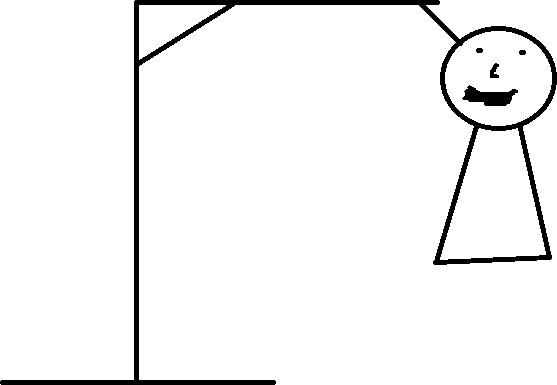
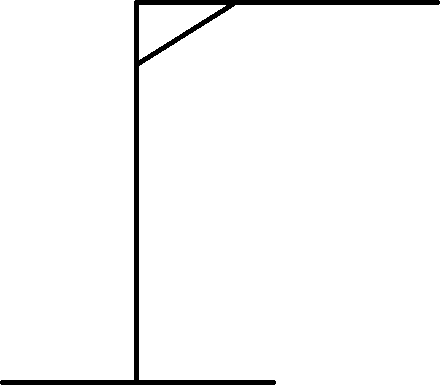
Add lifes of user and graphics

diff --git a/src/stores/WordStore.js b/src/stores/WordStore.js
@@ -3,7 +3,9 @@ import { ref, computed, watch } from "vue";
 
 export const useWordStore = defineStore("word", () => {
   const word = ref("");
+  const lifes = ref(8)
   const userWord = ref([])
+  const pathToImage = ref("")
   function initArrayOfUserWord(length){
     for (let i = 0; i < length; i++) {
       userWord.value[i]="_"
@@ -19,11 +21,25 @@ export const useWordStore = defineStore("word", () => {
   })
   const getWord = computed(() => word.value);
   function setUserWord(letter){
+    let isLetter = false
     for(let i=0; i<=word.value.length;i++){
     if(word.value[i]===letter){
       userWord.value[i]=letter
-    };
+      isLetter = true
     }
+    }
+    if(!isLetter){
+      decrementLifes()
+      changePathToImage(lifes.value)
+    }
+  }
+  const getLifes = computed(()=>lifes.value)
+  function decrementLifes(){
+    lifes.value--
+  }
+  const getPathToImage = computed(()=>pathToImage.value)
+  function changePathToImage(numberAsName){
+    pathToImage.value = `src/assets/${numberAsName}.png`
   }
   return {
     getWord,
@@ -31,5 +47,8 @@ export const useWordStore = defineStore("word", () => {
     getProgressWord,
     changeValue,
     setUserWord,
+    getLifes,
+    decrementLifes,
+    getPathToImage
   };
 });

diff --git a/src/components/Characters.vue b/src/components/Characters.vue
@@ -1,6 +1,6 @@
 <template>
     <div class="container">
-        <button v-for="n in 26" :key="n" @click="handleClick(n)" :disabled="isButtonClicked(n)">{{ String.fromCharCode(n + 64) }}</button>
+        <button v-for="n in 26" :key="n" @click="handleClick(n)" :disabled="isButtonClicked(n) || isGameEnded()">{{ String.fromCharCode(n + 64) }}</button>
     </div>
 </template>
 
@@ -10,6 +10,11 @@ import {ref} from "vue"
 const clickedButton = ref([])
 function isButtonClicked(n){
     return clickedButton.value.includes(n)
+}
+function isGameEnded(){
+    if(wordStore.getLifes===0){
+        return true
+    }
 }
 function handleClick(n){
     clickedButton.value.push(n)

diff --git a/src/App.vue b/src/App.vue
@@ -4,12 +4,14 @@ import { useWordStore } from "./stores/WordStore.js"
 const wordStore = useWordStore()
 import { getWord } from "./api/getWordFromApi";
 import HangmanProgress from "./components/HangmanProgress.vue";
+import Image from "./components/Image.vue"
 getWord()
 </script>
 
 <template>
-  <HangmanProgress></HangmanProgress>
-  <Characters></Characters>
+  <HangmanProgress/>
+  <Characters/>
   {{ wordStore.getWord }}
-  <div><img src="./assets/game-over.png" alt=""></div>
+  {{ wordStore.getLifes }}
+  <Image/>
 </template>

diff --git a/src/components/Image.vue b/src/components/Image.vue
@@ -1,0 +1,8 @@
+<template>
+    <div><img :src="wordStore.getPathToImage" alt=""></div>
+</template>
+
+<script setup>
+import { useWordStore } from "../stores/WordStore.js"
+const wordStore = useWordStore()
+</script>
